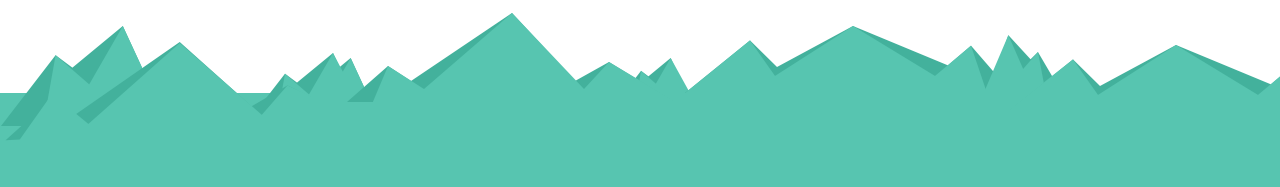
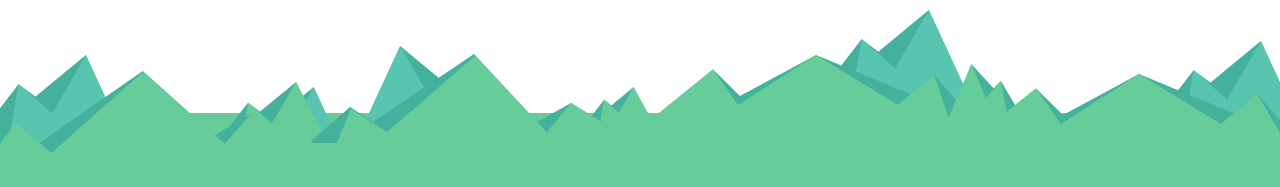
修改色碼，圖片

Changed region(s): [[0.0, 0.0535, 1.0, 0.615], [0.0, 0.6952, 0.0312, 0.7487]]

diff --git a/app/assets/stylesheets/static_pages.scss b/app/assets/stylesheets/static_pages.scss
@@ -1,6 +1,7 @@
 // Place all the styles related to the StaticPages controller here.
 // They will automatically be included in application.css.
 // You can use Sass (SCSS) here: http://sass-lang.com/
+$green-color: #66CC99;
 
 body{
 	margin:0;
@@ -109,12 +110,12 @@ nav#front-nav{
 	}
 }
 .green_block{
-	background-color: #00CCB2;
+	background-color: $green-color;
 	padding-top: 100px;
 }
 
 #speaker{
-	background-color: #00CCB2;
+	background-color: $green-color;
 	text-align: center;
 	
 	.row{

diff --git a/app/controllers/backend/base_controller.rb b/app/controllers/backend/base_controller.rb
@@ -18,6 +18,8 @@ class Backend::BaseController < ApplicationController
       end
       f.json
     end
+  else
+    flash[:success] = t('flash.warning')
   end
 
   def destroy

diff --git a/app/models/speaker.rb b/app/models/speaker.rb
@@ -1,3 +1,4 @@
 class Speaker < ActiveRecord::Base
  mount_uploader :avatar, AvatarUploader
+ validates :name,  presence: true, length: { maximum: 50 }
 end
